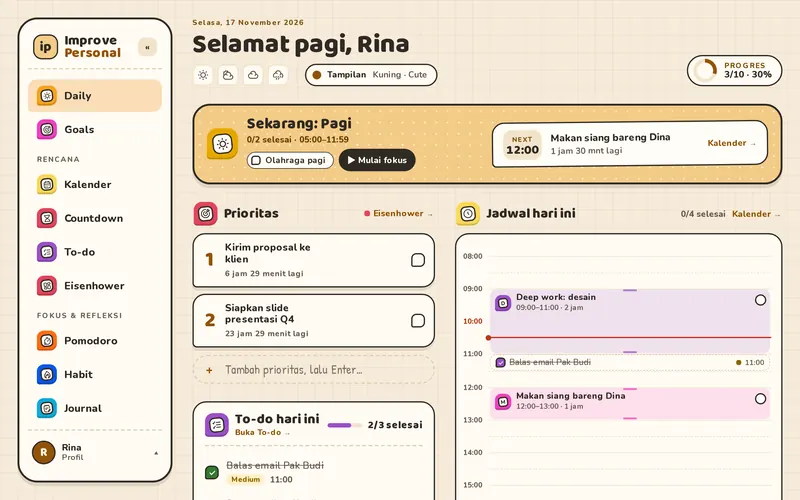
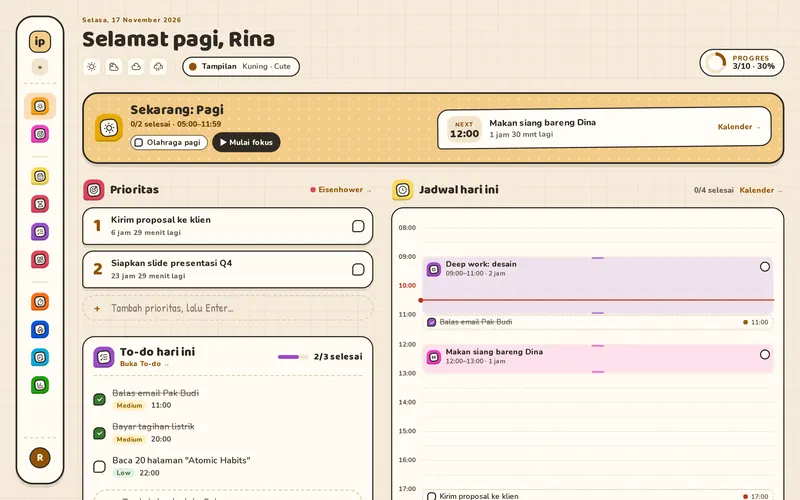
chore(web): screenshot landing di layar 1440 dengan sidebar ditutup

diff --git a/apps/web/scripts/landing/shots.ts b/apps/web/scripts/landing/shots.ts
@@ -28,7 +28,8 @@ import { DEMO_TZ, buildDemoBackup } from './demo-data'
 const BASE_URL = process.argv[2] ?? 'http://localhost:3700'
 const OUT_DIR = resolve(import.meta.dirname, '../../public/landing')
 
-const VIEWPORT = { width: 1280, height: 800 }
+/** Layar lebar (16:10, sama dengan rasio bingkai di landing) supaya isi halaman lega. */
+const VIEWPORT = { width: 1440, height: 900 }
 const PHONE_VIEWPORT = { width: 390, height: 844 }
 /** Render 2x lalu diperkecil: teks tetap tajam di layar retina tanpa berkas raksasa. */
 const DEVICE_SCALE = 2
@@ -58,6 +59,12 @@ const SHOTS: readonly { readonly name: string; readonly path: string }[] = [
   { name: 'pomodoro', path: '/app/pomodoro' },
   { name: 'countdown', path: '/app/countdown' },
 ]
+
+/**
+ * Sama dengan `SIDEBAR_STORAGE_KEY` di `app/stores/ui.ts`. Ditulis ulang karena store itu memakai
+ * auto-import Nuxt (`defineStore`) sehingga tidak bisa diimpor dari skrip Node ini.
+ */
+const SIDEBAR_STORAGE_KEY = `${TECH_IDENTITY.storagePrefix}sb`
 
 const PHONE_SHOTS: readonly string[] = ['daily', 'habit']
 
@@ -138,10 +145,14 @@ async function main(): Promise<void> {
       timezoneId: DEMO_TZ,
       reducedMotion: 'reduce',
     })
-    await context.addInitScript(([key, value]) => window.localStorage.setItem(key, value), [
-      `${TECH_IDENTITY.storagePrefix}license`,
-      token,
-    ] as const)
+    await context.addInitScript(
+      ([licenseKey, license, sidebarKey]) => {
+        window.localStorage.setItem(licenseKey, license)
+        // Sidebar ditutup: area isi lebih luas di screenshot.
+        window.localStorage.setItem(sidebarKey, '1')
+      },
+      [`${TECH_IDENTITY.storagePrefix}license`, token, SIDEBAR_STORAGE_KEY] as const,
+    )
 
     const page = await context.newPage()
     await page.clock.install({ time: shotTime })

diff --git a/apps/web/app/components/features/landing/LandingShot.vue b/apps/web/app/components/features/landing/LandingShot.vue
@@ -19,7 +19,7 @@ const {
   sizes?: string
 }>()
 
-/** Ukuran intrinsik varian terbesar (`OUTPUT_WIDTHS` di skrip screenshot, rasio 1280x800). */
+/** Ukuran intrinsik varian terbesar (`OUTPUT_WIDTHS` di skrip screenshot, viewport 1440x900 = rasio 16:10). */
 const WIDTH = 1600
 const HEIGHT = 1000
 </script>
